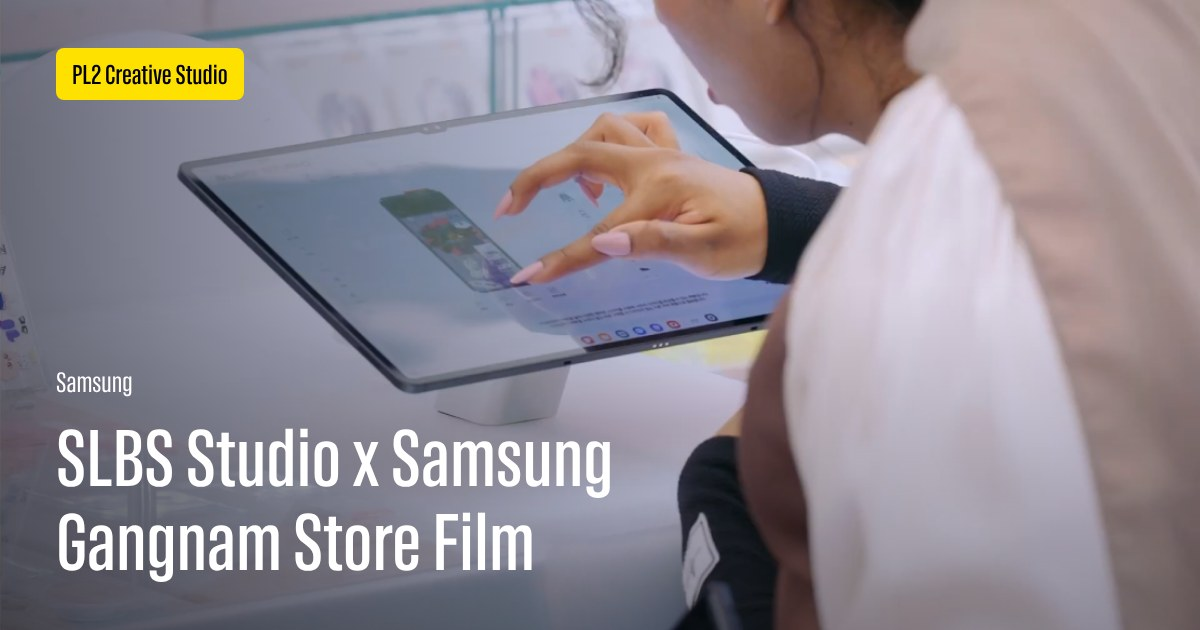
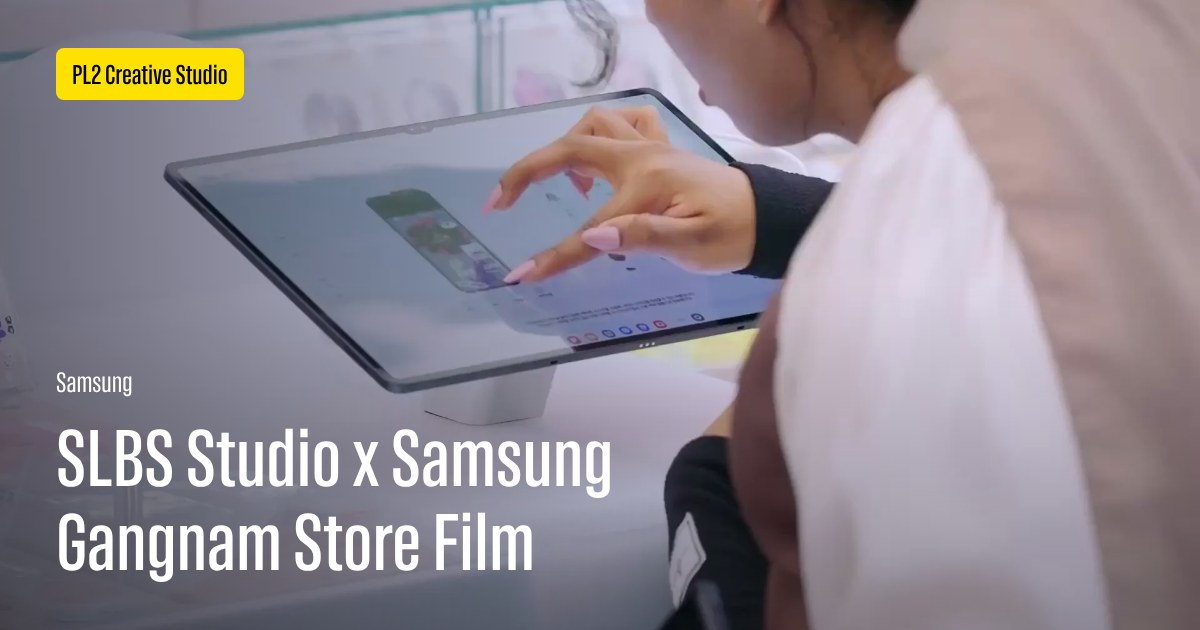
Detail 12/14 and Works: place delivered videos (SKZ concept/CCTV loops, SLBS hero highlight, product/space loops, SLBS Works card); film slots wired to video-play
Claude-Session: https://claude.ai/code/session_017fPWdxNm1uU1W77Gv1upXe

diff --git a/works-detail-14.html b/works-detail-14.html
@@ -56,8 +56,18 @@
       <div class="wd-container">
         <section class="wd-top">
           <div class="wd-hero wd-hero--dark">
-            <!-- 히어로 영상 (VIDEO fill 28fb25 = Works 썸네일) — 파일을 받기 전까지 같은 장면의 제품 영상 정지 화면 -->
-            <img class="wd-hero-media" src="assets/wd14-product-01-poster.webp" alt="" />
+            <!-- 히어로 영상 (VIDEO fill 28fb25 = Works 썸네일, 24초 하이라이트) -->
+            <video
+              class="wd-hero-media"
+              poster="assets/wd14-hero-poster.webp"
+              autoplay
+              muted
+              loop
+              playsinline
+              preload="metadata"
+            >
+              <source src="assets/wd14-hero.mp4" type="video/mp4" />
+            </video>
             <div class="wd-hero-dim" aria-hidden="true"></div>
 
             <div class="wd-hero-title">
@@ -89,8 +99,9 @@
             <div class="wdx-item wdx-head wdx-head--center" style="--x: 0; --y: 0; --w: 1920">
               <h2 class="wd-head-title">Your Style In Real Life</h2>
             </div>
-            <!-- 영상 (VIDEO fill cdef6b) — 파일을 받으면 자동 재생 video 로 바꾼다 -->
-            <img class="wdx-item" style="--x: 338; --y: 126; --w: 1244; --hh: 700" src="assets/wd14-style-poster.webp" alt="" data-reveal />
+            <video class="wdx-item" style="--x: 338; --y: 126; --w: 1244; --hh: 700" poster="assets/wd14-style-poster.webp" autoplay muted loop playsinline preload="metadata" data-reveal>
+              <source src="assets/wd14-style.mp4" type="video/mp4" />
+            </video>
             <p class="wdx-item wdx-caption" style="--x: 30; --y: 858; --w: 1859">SLBS Studio X Samsung - Gangnam Store</p>
         </section>
 
@@ -104,12 +115,15 @@
                 오브제가 되는 순간을 보여줍니다.
               </p>
             </div>
-            <!-- 영상 (VIDEO fill a79d96) -->
-            <img class="wdx-item" style="--x: 809; --y: 246; --w: 1111; --hh: 595" src="assets/wd14-product-01-poster.webp" alt="" data-reveal />
-            <!-- 영상 (VIDEO fill b0e6ec) -->
-            <img class="wdx-item" style="--x: 0; --y: 961; --w: 716; --hh: 384" src="assets/wd14-product-02-poster.webp" alt="" data-reveal />
-            <!-- 영상 (VIDEO fill a8ab21) -->
-            <img class="wdx-item" style="--x: 966; --y: 1465; --w: 954; --hh: 513" src="assets/wd14-product-03-poster.webp" alt="" data-reveal />
+            <video class="wdx-item" style="--x: 809; --y: 246; --w: 1111; --hh: 595" poster="assets/wd14-product-01-poster.webp" autoplay muted loop playsinline preload="metadata" data-reveal>
+              <source src="assets/wd14-product-01.mp4" type="video/mp4" />
+            </video>
+            <video class="wdx-item" style="--x: 0; --y: 961; --w: 716; --hh: 384" poster="assets/wd14-product-02-poster.webp" autoplay muted loop playsinline preload="metadata" data-reveal>
+              <source src="assets/wd14-product-02.mp4" type="video/mp4" />
+            </video>
+            <video class="wdx-item" style="--x: 966; --y: 1465; --w: 954; --hh: 513" poster="assets/wd14-product-03-poster.webp" autoplay muted loop playsinline preload="metadata" data-reveal>
+              <source src="assets/wd14-product-03.mp4" type="video/mp4" />
+            </video>
         </section>
 
         <!-- ══ Inside SLBS Studio (피그마 y 5276–7427) ══ -->
@@ -122,12 +136,14 @@
                 내부로 이어지는 화면 구성을 통해 브랜드가 펼쳐지는 공간을 입체적으로 보여주었습니다.
               </p>
             </div>
-            <!-- 영상 (VIDEO fill b559e3, 드론 외관) -->
-            <img class="wdx-item" style="--x: 338; --y: 246; --w: 1244; --hh: 686" src="assets/wd14-space-01-poster.webp" alt="" data-reveal />
-            <!-- 영상 (VIDEO fill a8bf3a) -->
+            <video class="wdx-item" style="--x: 338; --y: 246; --w: 1244; --hh: 686" poster="assets/wd14-space-01-poster.webp" autoplay muted loop playsinline preload="metadata" data-reveal>
+              <source src="assets/wd14-space-01.mp4" type="video/mp4" />
+            </video>
+            <!-- 영상 (VIDEO fill a8bf3a, 매장 계단) — 아직 파일이 없어 정지 화면 -->
             <img class="wdx-item" style="--x: 809; --y: 1052; --w: 1111; --hh: 595" src="assets/wd14-space-02-poster.webp" alt="" data-reveal />
-            <!-- 영상 (VIDEO fill d9173c) -->
-            <img class="wdx-item" style="--x: 0; --y: 1767; --w: 716; --hh: 384" src="assets/wd14-space-03-poster.webp" alt="" data-reveal />
+            <video class="wdx-item" style="--x: 0; --y: 1767; --w: 716; --hh: 384" poster="assets/wd14-space-03-poster.webp" autoplay muted loop playsinline preload="metadata" data-reveal>
+              <source src="assets/wd14-space-03.mp4" type="video/mp4" />
+            </video>
         </section>
 
         <!-- ══ The People Behind It (피그마 y 7747–8693) ══ -->
@@ -142,11 +158,14 @@
             <img class="wdx-item" style="--x: 966; --y: 366; --w: 954; --hh: 580" src="assets/wd14-people-02.webp" alt="" data-reveal />
         </section>
 
-        <!-- ══ 필름 (피그마 Video 3658:21463, 1920x1080 + 재생 버튼) ══
-             영상 파일(VIDEO fill 0c5d74)을 받으면 video + 재생 버튼(video-play.js)으로 바꾼다 -->
+        <!-- ══ 필름 (피그마 Video 3658:21463, 1920x1080 + 재생 버튼, 소리 있음) ══ -->
         <section class="wdx-stage" style="--h: 1080">
-            <div class="wdx-item wdx-video" style="--x: 0; --y: 0; --w: 1920; --hh: 1080">
-              <img src="assets/wd14-film-poster.webp" alt="" />
+            <!-- 브랜드 필름 (VIDEO fill 0c5d74) -->
+            <div class="wdx-item wdx-video" style="--x: 0; --y: 0; --w: 1920; --hh: 1080" data-playing="false" data-reveal>
+              <video playsinline preload="metadata" poster="assets/wd14-film-poster.webp">
+                <source src="assets/wd14-film.mp4" type="video/mp4" />
+              </video>
+              <button type="button" class="wdx-video-play" aria-label="영상 재생"></button>
             </div>
         </section>
       </div>
@@ -180,5 +199,6 @@
 
     <script src="assets/gnb.js"></script>
     <script src="assets/top-btn.js"></script>
+    <script src="assets/video-play.js"></script>
   </body>
 </html>

diff --git a/works-detail-12.html b/works-detail-12.html
@@ -135,8 +135,9 @@
             <img class="wdx-item" style="--x: 964; --y: 334; --w: 956; --hh: 514" src="assets/wd12-move-03.webp" alt="" data-reveal />
             <img class="wdx-item" style="--x: 0; --y: 736; --w: 956; --hh: 514" src="assets/wd12-move-02.webp" alt="" data-reveal />
             <img class="wdx-item" style="--x: 964; --y: 856; --w: 956; --hh: 514" src="assets/wd12-move-04.webp" alt="" data-reveal />
-            <!-- 영상 (VIDEO fill 1af1ed, 크로마키 촬영 현장) — 파일을 받으면 자동 재생 video 로 바꾼다 -->
-            <img class="wdx-item" style="--x: 181; --y: 1490; --w: 1558; --hh: 860" src="assets/wd12-move-video-poster.webp" alt="" data-reveal />
+            <video class="wdx-item" style="--x: 181; --y: 1490; --w: 1558; --hh: 860" poster="assets/wd12-move-video-poster.webp" autoplay muted loop playsinline preload="metadata" data-reveal>
+              <source src="assets/wd12-move.mp4" type="video/mp4" />
+            </video>
         </section>
 
         <!-- ══ The Story Behind the Pop-up (피그마 y 8871–11378) ══ -->
@@ -150,9 +151,12 @@
             </div>
             <img class="wdx-item" style="--x: 0; --y: 214; --w: 1033; --hh: 554" src="assets/wd12-story-01.webp" alt="" data-reveal />
             <img class="wdx-item" style="--x: 731; --y: 888; --w: 1189; --hh: 639" src="assets/wd12-story-02.webp" alt="" data-reveal />
-            <!-- 인터뷰 영상 (VIDEO fill 803e23, 재생 버튼) — 영상 파일을 받으면 video + 재생 버튼(video-play.js)으로 바꾼다 -->
-            <div class="wdx-item wdx-video" style="--x: 181; --y: 1647; --w: 1558; --hh: 860" data-reveal>
-              <img src="assets/wd12-story-video-poster.webp" alt="" />
+            <!-- 인터뷰 영상 (VIDEO fill 803e23, 소리 있음, 재생 버튼) -->
+            <div class="wdx-item wdx-video" style="--x: 181; --y: 1647; --w: 1558; --hh: 860" data-playing="false" data-reveal>
+              <video playsinline preload="metadata" poster="assets/wd12-story-video-poster.webp">
+                <source src="assets/wd12-interview.mp4" type="video/mp4" />
+              </video>
+              <button type="button" class="wdx-video-play" aria-label="영상 재생"></button>
             </div>
         </section>
 
@@ -167,8 +171,9 @@
             </div>
             <img class="wdx-item" style="--x: 966; --y: 214; --w: 954; --hh: 1200" src="assets/wd12-exp-02.webp" alt="" data-reveal />
             <img class="wdx-item" style="--x: 0; --y: 334; --w: 954; --hh: 1200" src="assets/wd12-exp-01.webp" alt="" data-reveal />
-            <!-- 영상 (VIDEO fill 610a2c, CCTV 크로마키 촬영 현장) — 파일을 받으면 자동 재생 video 로 바꾼다 -->
-            <img class="wdx-item" style="--x: 181; --y: 1654; --w: 1558; --hh: 860" src="assets/wd12-exp-video-poster.webp" alt="" data-reveal />
+            <video class="wdx-item" style="--x: 181; --y: 1654; --w: 1558; --hh: 860" poster="assets/wd12-exp-video-poster.webp" autoplay muted loop playsinline preload="metadata" data-reveal>
+              <source src="assets/wd12-exp.mp4" type="video/mp4" />
+            </video>
         </section>
       </div>
     </main>
@@ -201,5 +206,6 @@
 
     <script src="assets/gnb.js"></script>
     <script src="assets/top-btn.js"></script>
+    <script src="assets/video-play.js"></script>
   </body>
 </html>

diff --git a/works-detail-13.html b/works-detail-13.html
@@ -236,11 +236,14 @@
           </div>
         </div>
 
-        <!-- ══ 캠페인 필름 (피그마 Video 3658:21342, 1920x1080 + 재생 버튼) ══
-             영상 파일(VIDEO fill 2e0765)을 받으면 video + 재생 버튼(video-play.js)으로 바꾼다 -->
+        <!-- ══ 캠페인 필름 (피그마 Video 3658:21342, 1920x1080 + 재생 버튼, 소리 있음) ══ -->
         <section class="wdx-stage" style="--h: 1080">
-            <div class="wdx-item wdx-video" style="--x: 0; --y: 0; --w: 1920; --hh: 1080">
-              <img src="assets/wd13-film-poster.webp" alt="" />
+            <!-- 캠페인 필름 (VIDEO fill 2e0765) -->
+            <div class="wdx-item wdx-video" style="--x: 0; --y: 0; --w: 1920; --hh: 1080" data-playing="false" data-reveal>
+              <video playsinline preload="metadata" poster="assets/wd13-film-poster.webp">
+                <source src="assets/wd13-film.mp4" type="video/mp4" />
+              </video>
+              <button type="button" class="wdx-video-play" aria-label="영상 재생"></button>
             </div>
         </section>
       </div>
@@ -275,5 +278,6 @@
     <script src="assets/gnb.js"></script>
     <script src="assets/top-btn.js"></script>
     <script src="assets/wd2-story.js"></script>
+    <script src="assets/video-play.js"></script>
   </body>
 </html>

diff --git a/works.html b/works.html
@@ -98,9 +98,19 @@
               <p class="wk-card-project">CJ Milano Winter Olympics Campaign</p>
             </div>
           </a>
-          <!-- 상세 14 (추가 전달_10.29). 피그마 VIDEO fill(28fb25) — 영상 파일을 받기 전까지 같은 장면의 제품 영상 정지 화면 -->
+          <!-- 상세 14 (추가 전달_10.29). 피그마 VIDEO fill(28fb25) = 상세 14 히어로 24초 하이라이트의 카드 크기 판 -->
           <a class="wk-card wk-card--m" href="works-detail-14.html">
-            <img class="wk-card-media" src="assets/wd14-product-01-poster.webp" alt="" />
+            <video
+              class="wk-card-media"
+              poster="assets/wd14-hero-poster.webp"
+              autoplay
+              muted
+              loop
+              playsinline
+              preload="metadata"
+            >
+              <source src="assets/works-slbs.mp4" type="video/mp4" />
+            </video>
             <div class="wk-card-overlay">
               <p class="wk-card-brand">Samsung</p>
               <p class="wk-card-project">SLBS Studio x Samsung Gangnam Store Film</p>
